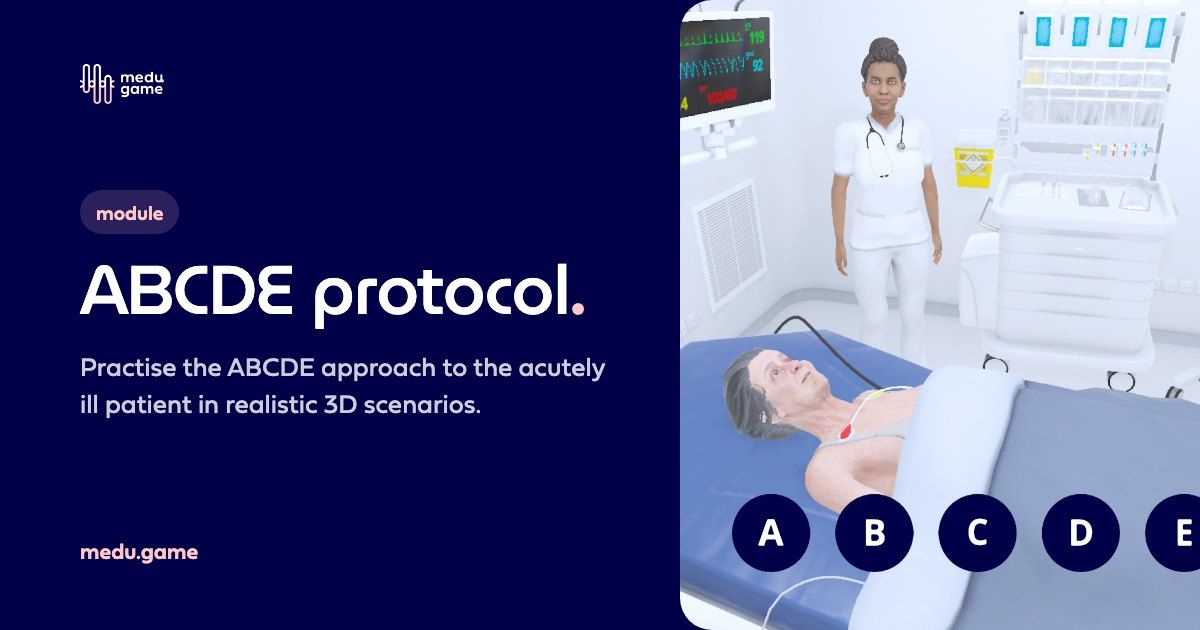
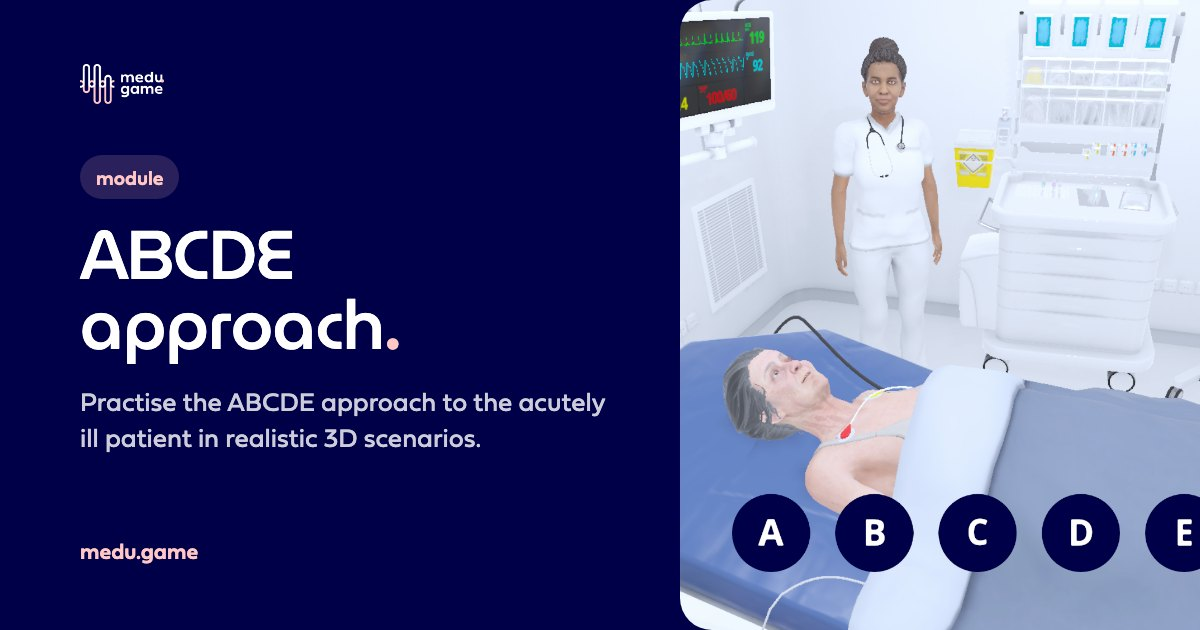
seo: Engels als x-default, één zoekterm per taal, titel eerst, en_GB
Besluit Tim 2026-09-29, voor de internationale social-funnel (VK/IE, Nordics):
- hreflang x-default → Engelse versie (NL blijft op de root).
- ABCDE-pagina: één hoofdterm per taal in titel, H1, beschrijving,
  Course-schema en share-card: EN "ABCDE approach", NL "ABCDE-methode".
- Titels "Pagina | Medu.game" i.p.v. "Medu.game | Pagina" (home blijft
  merk-eerst); EN-modules heten "… training module".
- og:locale en_GB en inLanguage en-GB (copy is al Brits: practise, licences).
- Share-cards opnieuw gerenderd; afgebroken koppeltekens voorkomen.

Claude-Session: https://claude.ai/code/session_01SZ2yfCbRBAYHR1Qzho1p2W

Changed region(s): [[0.0617, 0.2413, 0.5242, 0.7238]]

diff --git a/src/modules/abcde.html b/src/modules/abcde.html
@@ -1,9 +1,9 @@
 <!DOCTYPE html>
-<html lang="nl" data-title-nl="Medu.game | module ABCDE-protocol" data-title-en="Medu.game | ABCDE protocol module" data-desc-nl="Oefen de ABCDE-systematiek voor de acuut zieke patiënt in realistische 3D-scenario's met directe feedback. 4 scenario's + tutorial, op elk apparaat." data-desc-en="Practise the ABCDE approach to the acutely ill patient in realistic 3D scenarios with instant feedback. 4 scenarios + tutorial, on any device." data-og-image="/assets/og/og-abcde.jpg" data-og-image-en="/assets/og/og-abcde-en.jpg">
+<html lang="nl" data-title-nl="Module ABCDE-methode | Medu.game" data-title-en="ABCDE approach training module | Medu.game" data-desc-nl="Oefen de ABCDE-methode voor de acuut zieke patiënt in realistische 3D-scenario's met directe feedback. 4 scenario's + tutorial, op elk apparaat." data-desc-en="Practise the ABCDE approach to the acutely ill patient in realistic 3D scenarios with instant feedback. 4 scenarios + tutorial, on any device." data-og-image="/assets/og/og-abcde.jpg" data-og-image-en="/assets/og/og-abcde-en.jpg">
 <head>
 <meta charset="UTF-8" />
 <meta name="viewport" content="width=device-width, initial-scale=1.0" />
-<title>Medu.game | module abcde-protocol</title>
+<title>Module ABCDE-methode | Medu.game</title>
 <link rel="stylesheet" href="/assets/medu-fonts.css">
 <link rel="stylesheet" href="/assets/medu.css?v=30">
 <link rel="stylesheet" href="/assets/medu-gallery.css?v=30">
@@ -102,7 +102,7 @@
         <span class="sep" aria-hidden="true"></span>
         <span class="mh-tag"><span class="pdot"></span><span lang="nl">module · acute zorg</span><span lang="en">module · acute care</span></span>
       </div>
-      <h1 class="mh-title">ABCDE<span class="dot">.</span><span class="sub">protocol</span></h1>
+      <h1 class="mh-title">ABCDE<span class="dot">.</span><span class="sub"><span lang="nl">methode</span><span lang="en">approach</span></span></h1>
       <p class="mh-lede"><span lang="nl">De evidence-based standaard voor systematische beoordeling van de acuut zieke patiënt. Oefen de ABCDE-systematiek tot ze een tweede natuur wordt, onder tijdsdruk, veilig en herhaalbaar, op elk apparaat.</span><span lang="en">The evidence-based standard for the systematic assessment of the acutely ill patient. Practise the ABCDE approach until it becomes second nature, under time pressure, safely and repeatably, on any device.</span></p>
       <div class="mh-cta">
         <a class="btn btn-pink" href="/demo.html"><span lang="nl">plan een demo (30 min)</span><span lang="en">book a demo (30 min)</span></a>

diff --git a/src/modules/als.html b/src/modules/als.html
@@ -1,9 +1,9 @@
 <!DOCTYPE html>
-<html lang="nl" data-title-nl="Medu.game | module Advanced Life Support" data-title-en="Medu.game | Advanced Life Support module" data-desc-nl="Speel een volledig code blue-scenario: het ALS-algoritme, ritme-analyse, de 4 H's & 4 T's en teamleiding met closed-loop communicatie. Gevorderd, in 3D." data-desc-en="Play a full code blue scenario: the ALS algorithm, rhythm analysis, the 4 H's & 4 T's and team leadership with closed-loop communication. Advanced, in 3D." data-og-image="/assets/og/og-als.jpg" data-og-image-en="/assets/og/og-als-en.jpg">
+<html lang="nl" data-title-nl="Module Advanced Life Support | Medu.game" data-title-en="Advanced Life Support training module | Medu.game" data-desc-nl="Speel een volledig code blue-scenario: het ALS-algoritme, ritme-analyse, de 4 H's & 4 T's en teamleiding met closed-loop communicatie. Gevorderd, in 3D." data-desc-en="Play a full code blue scenario: the ALS algorithm, rhythm analysis, the 4 H's & 4 T's and team leadership with closed-loop communication. Advanced, in 3D." data-og-image="/assets/og/og-als.jpg" data-og-image-en="/assets/og/og-als-en.jpg">
 <head>
 <meta charset="UTF-8" />
 <meta name="viewport" content="width=device-width, initial-scale=1.0" />
-<title>Medu.game | module Advanced Life Support</title>
+<title>Module Advanced Life Support | Medu.game</title>
 <link rel="stylesheet" href="/assets/medu-fonts.css">
 <link rel="stylesheet" href="/assets/medu.css?v=30">
 <link rel="stylesheet" href="/assets/medu-gallery.css?v=30">

diff --git a/src/modules/reanimatie-aed.html b/src/modules/reanimatie-aed.html
@@ -1,9 +1,9 @@
 <!DOCTYPE html>
-<html lang="nl" data-title-nl="Medu.game | module reanimatie & AED" data-title-en="Medu.game | resuscitation & AED module" data-desc-nl="Train basic life support en AED-gebruik in realistische reanimatiescenario's, van volwassene tot kind. Veilig oefenen met directe feedback." data-desc-en="Train basic life support and AED use in realistic resuscitation scenarios, from adult to child. Practise safely with instant feedback." data-og-image="/assets/og/og-reanimatie-aed.jpg" data-og-image-en="/assets/og/og-reanimatie-aed-en.jpg">
+<html lang="nl" data-title-nl="Module reanimatie & AED | Medu.game" data-title-en="Resuscitation & AED training module | Medu.game" data-desc-nl="Train basic life support en AED-gebruik in realistische reanimatiescenario's, van volwassene tot kind. Veilig oefenen met directe feedback." data-desc-en="Train basic life support and AED use in realistic resuscitation scenarios, from adult to child. Practise safely with instant feedback." data-og-image="/assets/og/og-reanimatie-aed.jpg" data-og-image-en="/assets/og/og-reanimatie-aed-en.jpg">
 <head>
 <meta charset="UTF-8" />
 <meta name="viewport" content="width=device-width, initial-scale=1.0" />
-<title>Medu.game | module reanimatie &amp; aed</title>
+<title>Module reanimatie &amp; AED | Medu.game</title>
 <link rel="stylesheet" href="/assets/medu-fonts.css">
 <link rel="stylesheet" href="/assets/medu.css?v=30">
 <link rel="stylesheet" href="/assets/medu-gallery.css?v=30">

diff --git a/src/modules/ecg.html b/src/modules/ecg.html
@@ -1,9 +1,9 @@
 <!DOCTYPE html>
-<html lang="nl" data-title-nl="Medu.game | module ECG-interpretatie" data-title-en="Medu.game | ECG interpretation module" data-desc-nl="Leer het 12-afleidingen-ECG: plaats de 10 elektroden en interpreteer via de 7+2-methode, van ritme tot diagnose. 6 scenario's in 3D." data-desc-en="Learn the 12-lead ECG: place the 10 electrodes and interpret with the 7+2 method, from rhythm to diagnosis. 6 scenarios in 3D." data-og-image="/assets/og/og-ecg.jpg" data-og-image-en="/assets/og/og-ecg-en.jpg">
+<html lang="nl" data-title-nl="Module ECG-interpretatie | Medu.game" data-title-en="ECG interpretation training module | Medu.game" data-desc-nl="Leer het 12-afleidingen-ECG: plaats de 10 elektroden en interpreteer via de 7+2-methode, van ritme tot diagnose. 6 scenario's in 3D." data-desc-en="Learn the 12-lead ECG: place the 10 electrodes and interpret with the 7+2 method, from rhythm to diagnosis. 6 scenarios in 3D." data-og-image="/assets/og/og-ecg.jpg" data-og-image-en="/assets/og/og-ecg-en.jpg">
 <head>
 <meta charset="UTF-8" />
 <meta name="viewport" content="width=device-width, initial-scale=1.0" />
-<title>Medu.game | module ecg-interpretatie</title>
+<title>Module ECG-interpretatie | Medu.game</title>
 <link rel="stylesheet" href="/assets/medu-fonts.css">
 <link rel="stylesheet" href="/assets/medu.css?v=30">
 <link rel="stylesheet" href="/assets/medu-gallery.css?v=30">

diff --git a/src/terms.html b/src/terms.html
@@ -1,14 +1,14 @@
 <!DOCTYPE html>
 <html lang="nl"
-  data-title-nl="Medu.game | Gebruiksvoorwaarden"
-  data-title-en="Medu.game | Terms & conditions"
+  data-title-nl="Gebruiksvoorwaarden | Medu.game"
+  data-title-en="Terms & conditions | Medu.game"
   data-desc-nl="De gebruiksvoorwaarden van Medu.game B.V. voor het gebruik van het leer- en simulatieplatform: accounts, toegestaan gebruik, aansprakelijkheid en meer."
   data-desc-en="The terms and conditions of Medu.game B.V. for using the learning and simulation platform: accounts, permitted use, liability and more."
   data-og-image="/assets/logo-pink.png">
 <head>
 <meta charset="UTF-8" />
 <meta name="viewport" content="width=device-width, initial-scale=1.0" />
-<title>Medu.game | Gebruiksvoorwaarden</title>
+<title>Gebruiksvoorwaarden | Medu.game</title>
 <link rel="stylesheet" href="/assets/medu-fonts.css">
 <link rel="stylesheet" href="/assets/medu.css?v=30">
 <link rel="stylesheet" href="/assets/medu-gallery.css?v=30">

diff --git a/src/privacy.html b/src/privacy.html
@@ -1,14 +1,14 @@
 <!DOCTYPE html>
 <html lang="nl"
-  data-title-nl="Medu.game | Privacybeleid"
-  data-title-en="Medu.game | Privacy policy"
+  data-title-nl="Privacybeleid | Medu.game"
+  data-title-en="Privacy policy | Medu.game"
   data-desc-nl="Privacyverklaring van Medu.game B.V.: welke persoonsgegevens we verwerken, waarvoor, hoe lang we ze bewaren en welke rechten je hebt onder de AVG."
   data-desc-en="Privacy statement of Medu.game B.V.: which personal data we process, why, how long we keep it and your rights under the GDPR."
   data-og-image="/assets/logo-pink.png">
 <head>
 <meta charset="UTF-8" />
 <meta name="viewport" content="width=device-width, initial-scale=1.0" />
-<title>Medu.game | Privacybeleid</title>
+<title>Privacybeleid | Medu.game</title>
 <link rel="stylesheet" href="/assets/medu-fonts.css">
 <link rel="stylesheet" href="/assets/medu.css?v=30">
 <link rel="stylesheet" href="/assets/medu-gallery.css?v=30">

diff --git a/src/demo.html b/src/demo.html
@@ -1,14 +1,14 @@
 <!DOCTYPE html>
 <html lang="nl"
-  data-title-nl="Medu.game | Plan een demo"
-  data-title-en="Medu.game | Book a demo"
+  data-title-nl="Plan een demo | Medu.game"
+  data-title-en="Book a demo | Medu.game"
   data-desc-nl="Plan een korte demo van Medu.game. Kies direct een moment dat jou uitkomt; we laten een echte casus zien en denken mee over jullie opleidingsdoelen."
   data-desc-en="Book a short demo of Medu.game. Pick a time that suits you; we'll show a real case and think along about your training goals."
   data-og-image="/assets/logo-pink.png">
 <head>
 <meta charset="UTF-8" />
 <meta name="viewport" content="width=device-width, initial-scale=1.0" />
-<title>Medu.game | Plan een demo</title>
+<title>Plan een demo | Medu.game</title>
 <link rel="stylesheet" href="/assets/medu-fonts.css">
 <link rel="stylesheet" href="/assets/medu.css?v=30">
 <link rel="stylesheet" href="/assets/medu-gallery.css?v=30">

diff --git a/src/team.html b/src/team.html
@@ -1,14 +1,14 @@
 <!DOCTYPE html>
 <html lang="nl"
-  data-title-nl="Medu.game | Team"
-  data-title-en="Medu.game | Team"
+  data-title-nl="Team | Medu.game"
+  data-title-en="Team | Medu.game"
   data-desc-nl="Maak kennis met het team achter Medu.game: een volledig remote bedrijf, ontstaan in Nederland en verspreid over Europa."
   data-desc-en="Meet the team behind Medu.game: a fully remote company, born in the Netherlands and spread across Europe."
   data-og-image="/assets/logo-pink.png">
 <head>
 <meta charset="UTF-8" />
 <meta name="viewport" content="width=device-width, initial-scale=1.0" />
-<title>Medu.game | Team</title>
+<title>Team | Medu.game</title>
 <link rel="stylesheet" href="/assets/medu-fonts.css">
 <link rel="stylesheet" href="/assets/medu.css?v=30">
 <link rel="stylesheet" href="/assets/medu-gallery.css?v=30">
